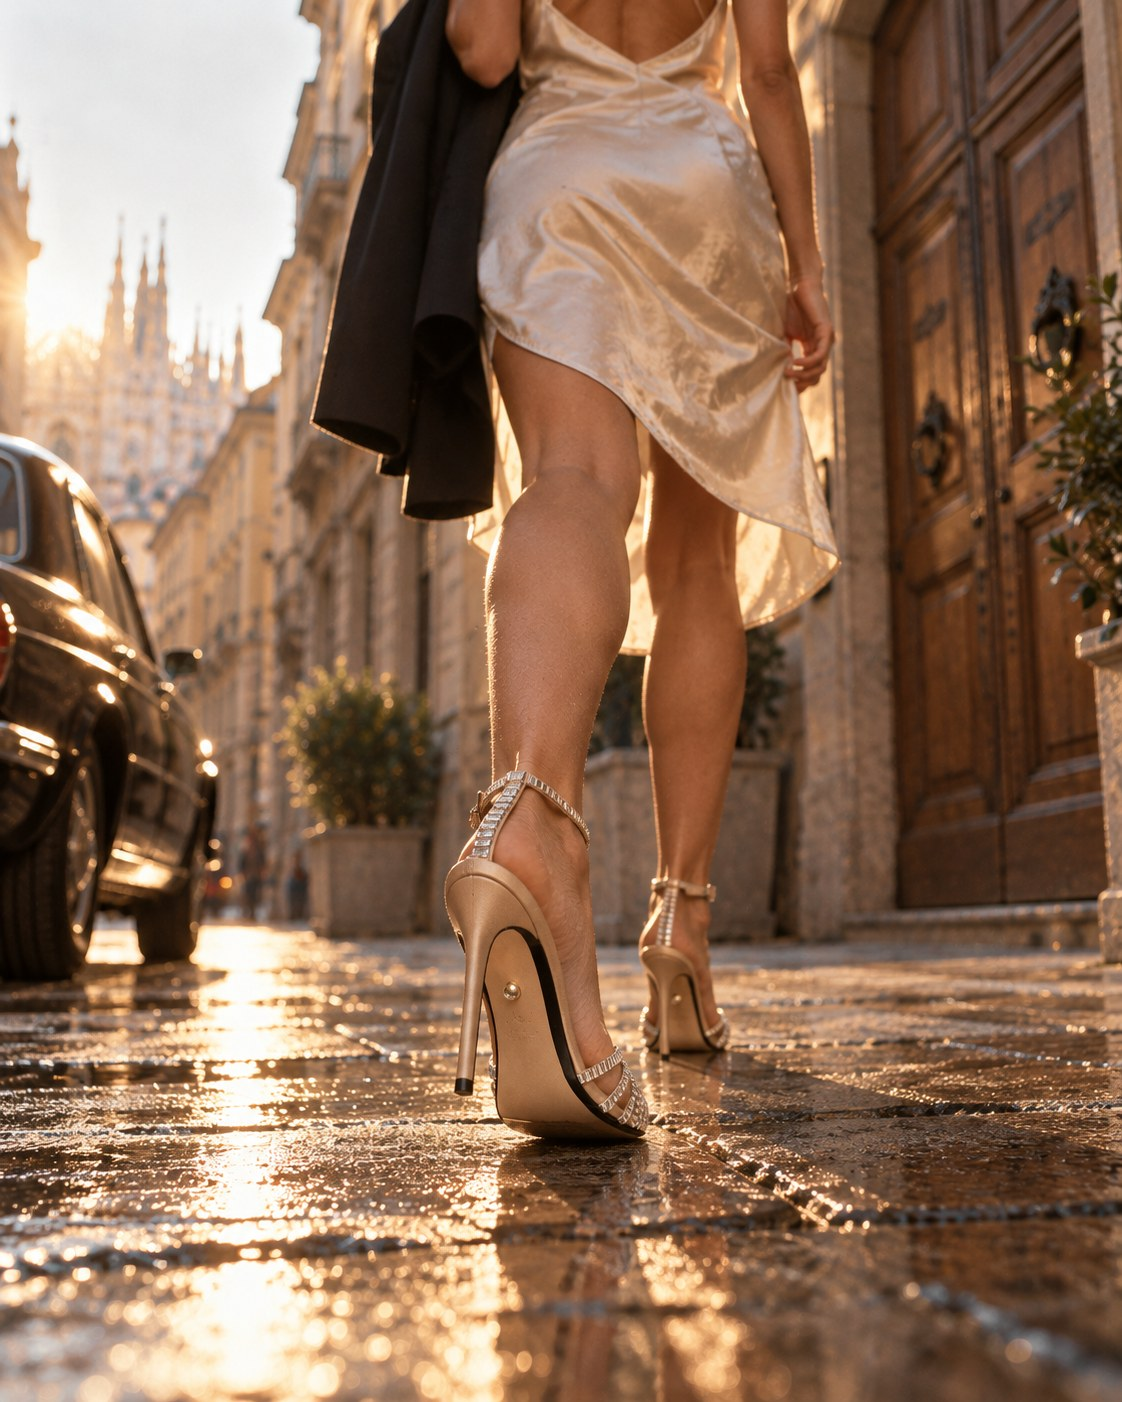
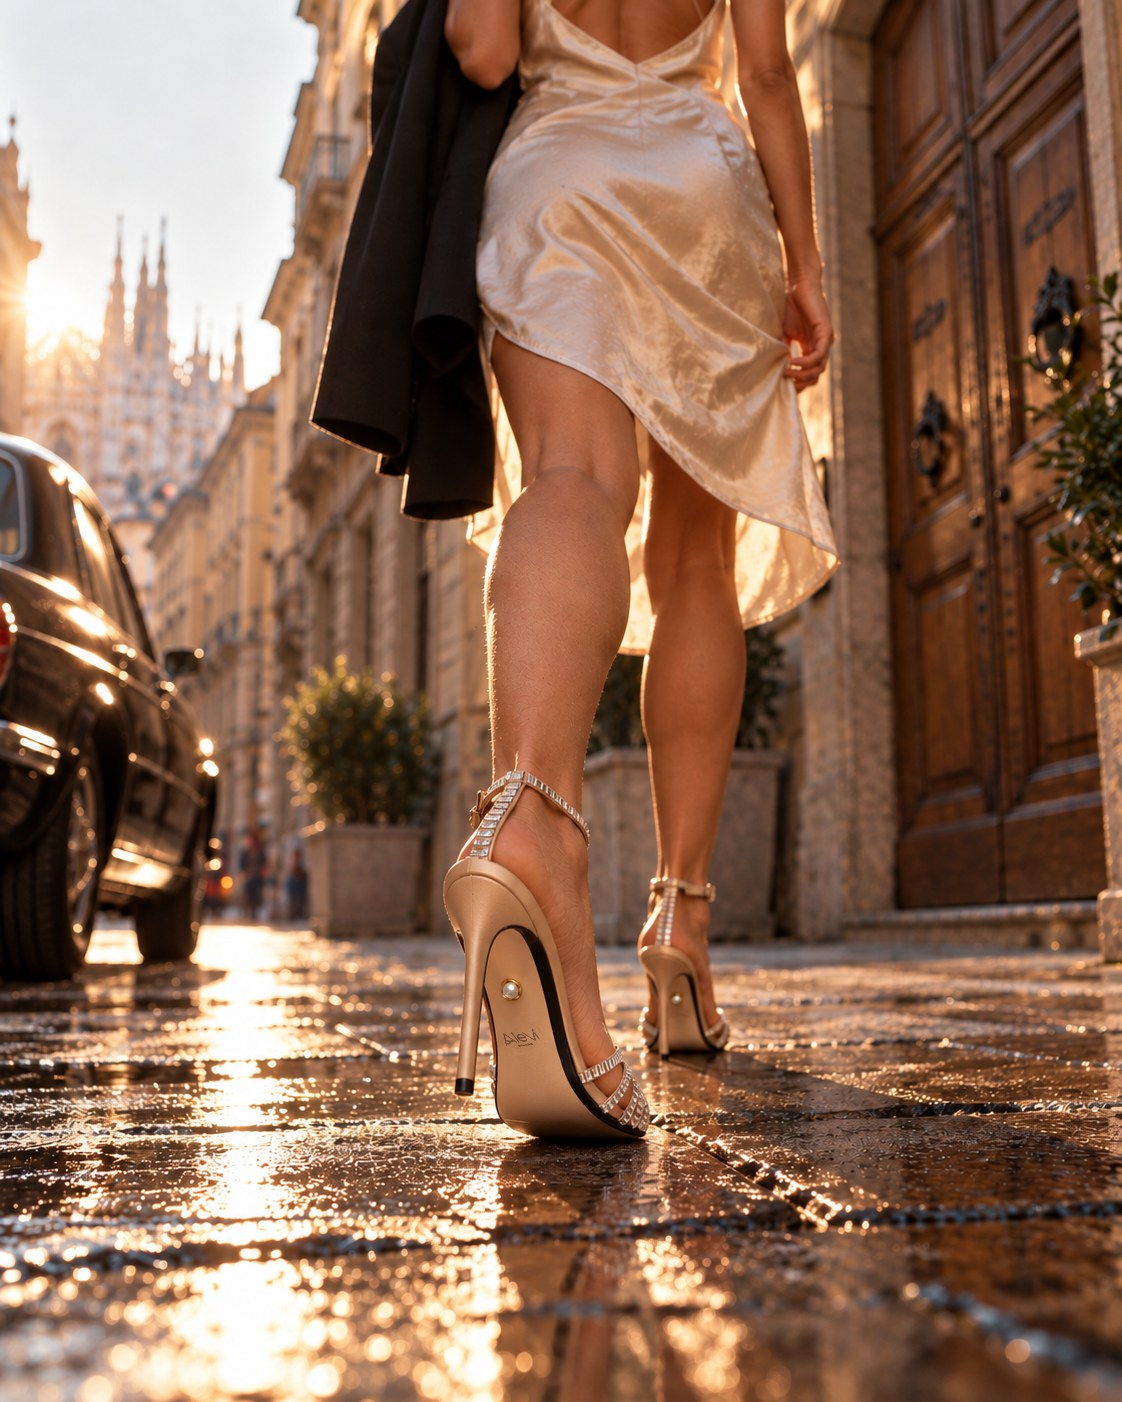
prova alevi: suola con timbro reale

diff --git a/prova/alevi-ccf3d7/index.html b/prova/alevi-ccf3d7/index.html
@@ -78,7 +78,7 @@ footer a{text-decoration:none}
   </div>
   <div class="pair">
     <figure><div class="frame pack"><img src="packshot-retro.jpg" alt="La vostra foto del retro"></div><figcaption>La vostra foto, retro</figcaption></figure>
-    <figure><div class="frame"><img src="dettaglio-retro.jpg" alt="Il retro in campagna: tacco, suola e perla"></div><figcaption>In campagna: tacco, suola, perla</figcaption></figure>
+    <figure><div class="frame"><img src="dettaglio-retro.jpg?v=5" alt="Il retro in campagna: tacco, suola e perla"></div><figcaption>In campagna: tacco, suola, perla</figcaption></figure>
   </div>
 </section>
 
@@ -91,12 +91,12 @@ footer a{text-decoration:none}
   <div class="gal">
     <figure><img src="penelope-01.jpg?v=4" alt="La risata"><figcaption>La risata</figcaption></figure>
     <figure><img src="penelope-02.jpg?v=4" alt="Il primo passo"><figcaption>Il primo passo</figcaption></figure>
-    <figure><img src="penelope-03.jpg" alt="Il rientro"><figcaption>Il rientro</figcaption></figure>
+    <figure><img src="penelope-03.jpg?v=5" alt="Il rientro"><figcaption>Il rientro</figcaption></figure>
   </div>
 </section>
 
 <section class="full"><img src="dettaglio.jpg?v=4" alt="Primo piano" style="max-height:none"></section>
-<section class="full"><img src="penelope-03.jpg" alt="Il rientro"></section>
+<section class="full"><img src="penelope-03.jpg?v=5" alt="Il rientro"></section>
 
 <section class="site">
   <span class="num">03 — Il resto del mio lavoro</span>
